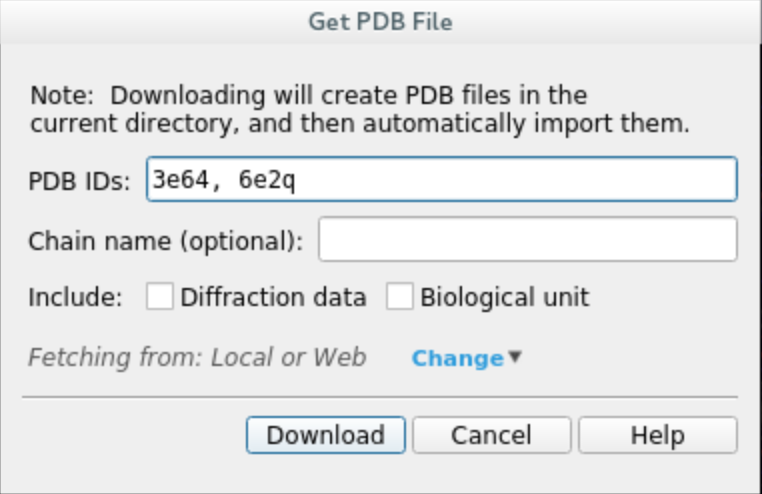
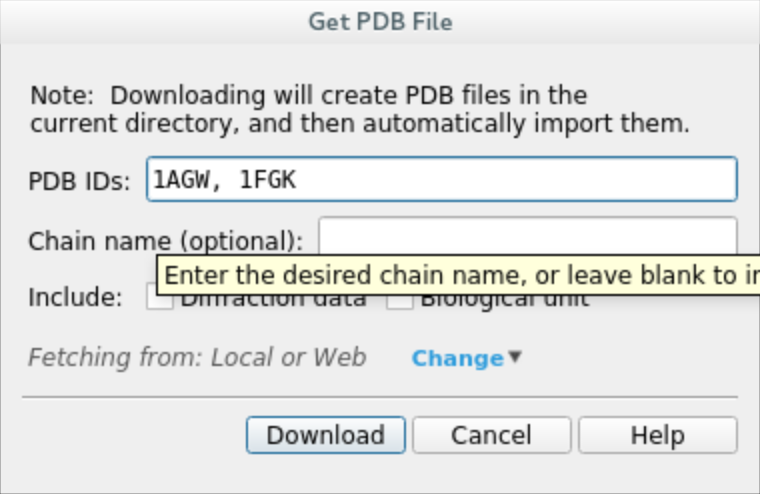
PELE-561 Inputs updated

diff --git a/docs/build_docs/source/tutorials/out_in.rst b/docs/build_docs/source/tutorials/out_in.rst
@@ -1,7 +1,7 @@
 Elucidating the binding path with the OutIn package
 ===================================================
-In this tutorial we will use the OutIn package to predict the binding path of a JAK-2 kinase inhibitor (PDB 3E64) using
-an APO (PDB ....) structure as a starting point.
+In this tutorial we will use the OutIn package to predict the binding path of an inhibitor of tyrosine kinase domain of fibroblast growth factor receptor 1 (PDB 1AGW) using
+an APO (PDB 1FGK) structure as a starting point.
 
 1. Protein file
 ----------------
@@ -16,15 +16,15 @@ In general, PELE input files need to follow a few guidelines:
     * Ligand residue name cannot be ``UNK``.
     * We also recommend removing any solvents and crystallization artefacts.
 
-a. **Download the protein structures** 3E64 (holo) and 3E64 (apo) by clicking on ``File -> Get PDB`` and inputting their respective codes. Once the download is complete, you should see both structures in the entry list on the left panel.
+a. **Download the protein structures** 1AGW (holo) and 1FGK (apo) by clicking on ``File -> Get PDB`` and inputting their respective codes. Once the download is complete, you should see both structures in the entry list on the left panel.
 
 .. image:: ../img/outin_1a.png
   :width: 400
   :align: center
 
-b. **Preprocess the holo structure**. Select entry 3E64, click on ``Tasks`` and search ``Protein Preparation Wizard``. Check the following options and hit ``Preprocess``. When prompted about multiple occupancy issues, simply select all entries and ``Commit``.
+b. **Preprocess the holo structure**. Select entry 1AGW, click on ``Tasks`` and search ``Protein Preparation Wizard``. Check the following options and hit ``Preprocess``. When prompted about multiple occupancy issues, simply select all entries and ``Commit``.
 
-.. image:: ../img/outin_1a.png
+.. image:: ../img/outin_1b.png
   :width: 400
   :align: center
 
@@ -36,11 +36,11 @@ c. **Extract the ligand**. Select the ligand, then click on the ``Build`` menu a
   :width: 400
   :align: center
 
-d. **Preprocess the apo structure**. Select entry 6E2Q and remove all chains except for A, you can do that by selecting each chain and using the ``Delete selected atoms`` button in the ``Build`` menu. Preprocess remaining chain with ``Protein Preparation Wizard`` using the same options as before.
+d. **Preprocess the apo structure**. Select entry 1FGK and remove all chains except for B, you can do that by selecting each chain and using the ``Delete selected atoms`` button in the ``Build`` menu. Preprocess remaining chain with ``Protein Preparation Wizard`` using the same options as before.
 
 ::
 
-e. **Merge**. Select the preprocessed 6E2Q and ligand entries, then right click and ``Merge`` into one entry.
+e. **Merge**. Select the preprocessed 1FGK and ligand entries, then right click and ``Merge`` into one entry. The ligand can be placed anywhere in the system, since PELE will automatically move it to the simulation box.
 
 .. image:: ../img/outin_1e.png
   :width: 400
@@ -62,11 +62,12 @@ Create ``input.yaml`` file in your working directory, it should contain the foll
     - **chain** - ligand chain ID, here ``Z``
     - **resname** - ligand residue name, in our case ``LIG``
     - **out_in** - sets the defaults for the OutIn simulation
+    - **atom_dist** - atom distances to track throughout the simulation
     - **initial_site** - residue corresponding to the starting point of the simulation, on the outside of the protein
     - **final_site** - end point of the simulation, where the ligand is supposed to bind
-    - **epsilon** - value of the bias applied, needs to be between 0 and 1, where 0 corresponds to no bias applied
-    - **cpus** - number of CPUs you want to use for the simulation (we suggest a minimum of 50 for a normal simulation, but you could lower it for training purposes only)
-    - **seed** - random seed to ensure reproducibility.
+    - **epsilon** - strength of the bias applied, needs to be between 0 and 1, where 0 corresponds to no bias applied
+    - **constraint_level**: - level of constraining alpha carbons of the protein to prevent structure collapse
+    - **cpus** - number of CPUs you want to use for the simulation (we suggest a minimum of 50 for a normal simulation, but you could lower it for training purposes only).
 
 ..  code-block:: yaml
 
@@ -74,11 +75,16 @@ Create ``input.yaml`` file in your working directory, it should contain the foll
     chain: 'Z'
     resname: 'LIG'
     out_in: true
-    seed: 12345
     cpus: 60
     epsilon: 0.5
-    initial_site:
-    final_site: "A:750:N"  # hinge interaction
+    initial_site: "B:486:O"
+    final_site: "B:562:O"  # hinge interaction
+    atom_dist:
+        - "Z:1000:H1"
+        - "B:562:O"
+        - "Z:1000:O1"
+        - "B:564:H"
+    constraint_level: 3
 
 **We strongly recommend running a test first to ensure all your input files are valid.**
 Simply include ``test: true`` in your input.yaml and launch the simulation, it will only use 5 CPUs. If it finishes correctly, you can remove the test
